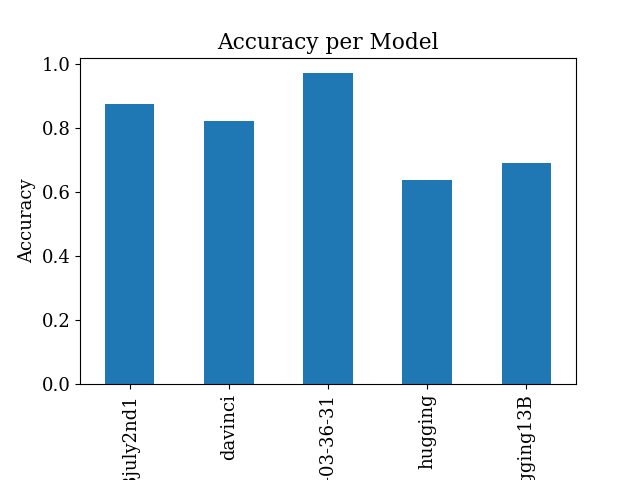
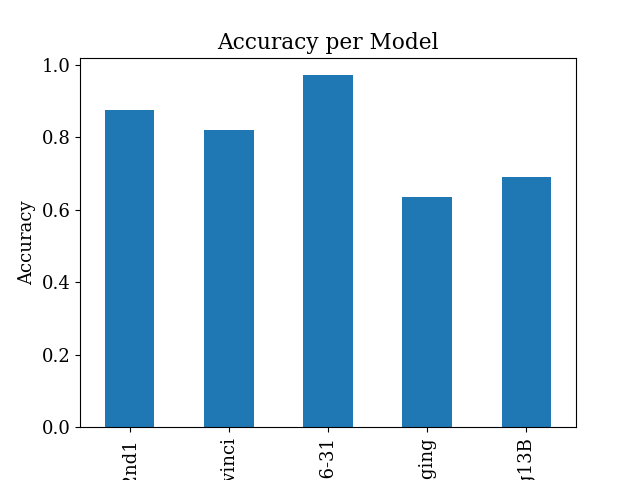
fixed graph font + names

diff --git a/eval-model-pt3/results/evaltocsv.py b/eval-model-pt3/results/evaltocsv.py
@@ -1,6 +1,7 @@
 import pandas as pd 
 import matplotlib.pyplot as plt
 import os
+from matplotlib.ticker import AutoLocator, MaxNLocator  # Add MaxNLocator to the import statement
 
 roman_to_decimal = {
     'I': 1,
@@ -94,9 +95,14 @@ pivot_df_model_chapter = create_pivot_table(filtered_df, 'model', 'chapter', 'ac
 pivot_df_model_chapter.to_csv(output_directory + 'results-model-chapter.csv')
 
 # model chapter plot
-pivot_df_model_chapter.T.plot(kind='line').set(xlabel='Chapter', ylabel='Accuracy', title='Accuracy per model and chapter')
+ax = pivot_df_model_chapter.T.plot(kind='line')
+ax.xaxis.set_major_locator(MaxNLocator(integer=True))  # Set the x-axis locator to show only whole numbers
+ax.set(xlabel='Chapter', ylabel='Accuracy', title='Accuracy per model and chapter')
 plt.legend(title='Model', loc='upper right')
+
+# Save the figure
 plt.savefig(output_directory + 'model_chap.png')
+plt.close()  # Close the figure to release memory
 
 # chapter quiz type table
 pivot_df_chapter_quiztype = create_pivot_table(filtered_df, 'model', 'quiz_type', 'accuracy')
